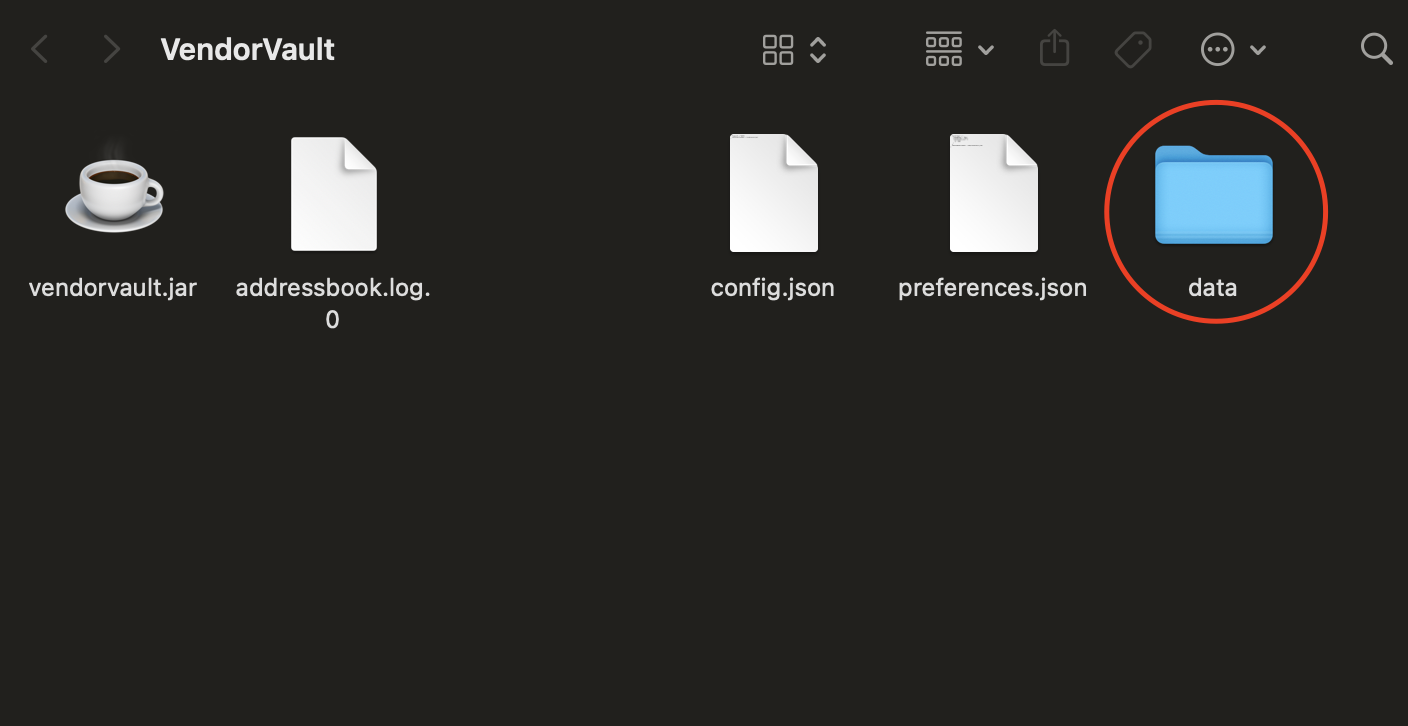
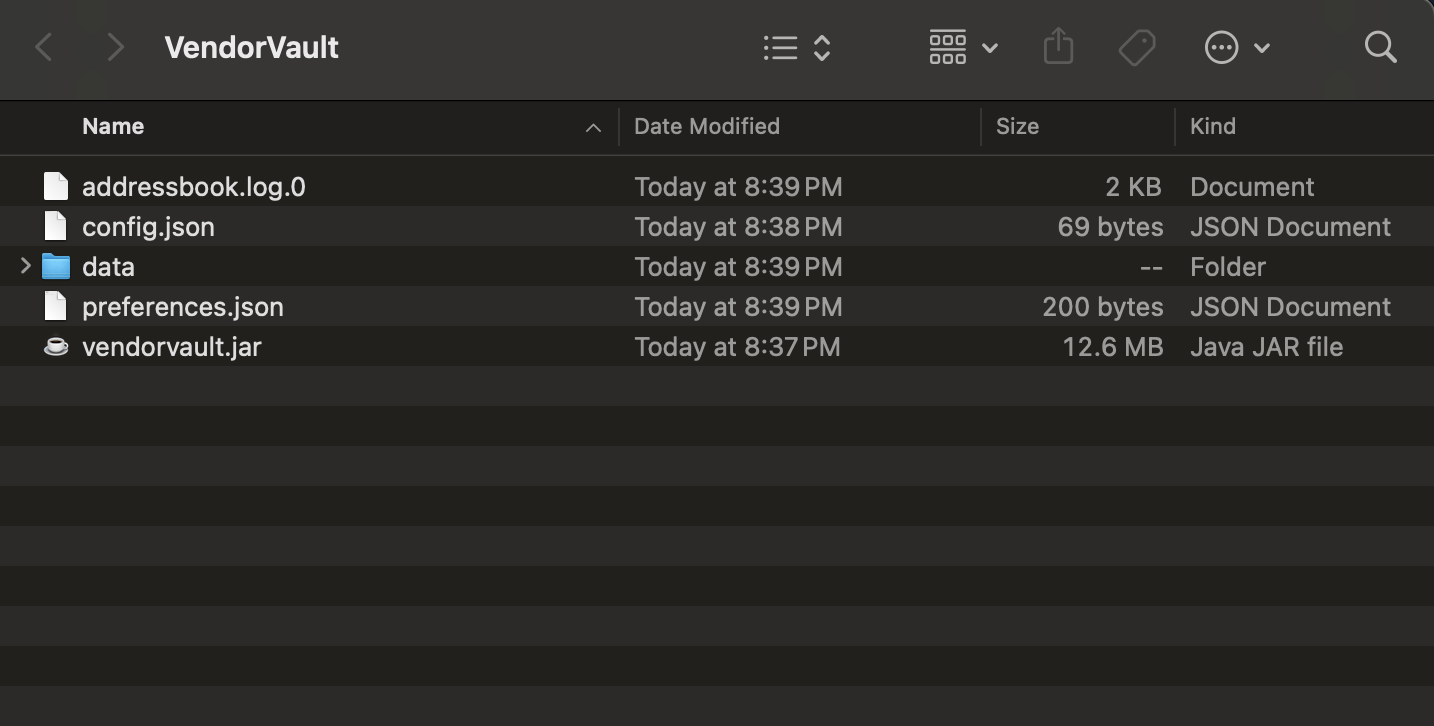
Update FAQ section of user guide

diff --git a/docs/UserGuide.md b/docs/UserGuide.md
@@ -821,7 +821,7 @@ VendorVault automatically saves your data as a JSON file `[JAR file location]/da
 
 <box type="warning" seamless>
 
-**Caution:**
+**Warnings:**
 - **Backup before editing!** If the file is not edited correctly, VendorVault may not be able to read it which will cause all your data to be erased, and the app will start with an empty data file the next time you open it. <br>
 - Furthermore, certain edits can cause VendorVault to behave in unexpected ways (e.g. if a value entered is outside the acceptable range). Therefore, edit the data file only if you are confident that you can update it correctly.
 
@@ -847,26 +847,28 @@ _Details coming soon ..._
 **Q**: How do I access my data?<br>
 **A**: 
 
-step 1: Open the folder that contains vendorvault.jar and the data folder
+- Step 1: Open the folder that contains vendorvault.jar and the data folder
 
-![VendorVault_Folder](images/VendorVaultFiles.png)
+![VendorVault_Folder](images/VendorVaultFolder.png)
 
-step 2: Open the folder named "data" to access the data file "vendorvault.json"
+- Step 2: Open the folder named "data" to access the data file "vendorvault.json"
 
-![Data_Folder](images/DataFolder.png)
+![Data_Folder](images/DataFile.png)
 
 **Q**: How do I transfer my data to another Computer?<br>
 **A**:
 
-step 1: Download the vendorvault.jar file and place it into an empty folder on a computer of your choice.
+- Step 1: Download the vendorvault.jar file and place it into an empty folder on a computer of your choice.
 
-step 2: Run the app and execute the `exit` command to create a data folder.
+- Step 2: Run the app and execute the `exit` command to create a data folder.
 
-step 3: On the previously used computer, copy the vendorvault.jar file which can be accessed by following the "How do I access my data?" FAQ above.
+- Step 3: Delete the vendorvault.json file in the data folder (underlined in red) of the new computer.
 
-step 4: Transfer the copied file to the newly created data folder (circled in red) in the new computer.
+- Step 4: On the previously used computer, copy the vendorvault.jar file which can be accessed by following the "How do I access my data?" FAQ above.
 
-![VendorVault_Folder](images/VendorVaultFolder.png)
+- Step 5: Transfer the copied file to the data folder (underlined in red) in the new computer.
+
+![VendorVault_Folder](images/UnderlinedData.png)
 
 **Q**: Will I be able to see my data the next time I use VendorVault after exiting?<br>
 **A**: Yes, all existing data that you have added will be loaded automatically and displayed.
